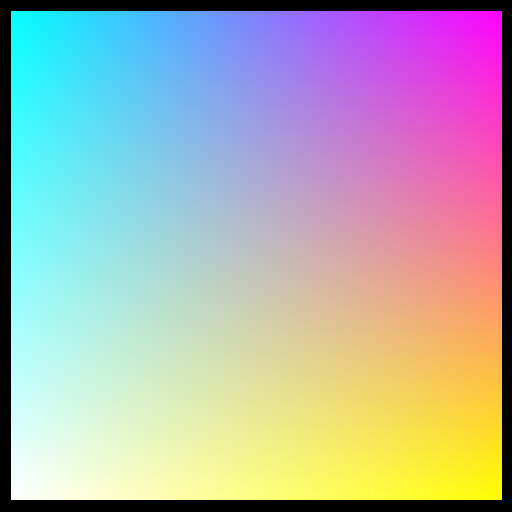
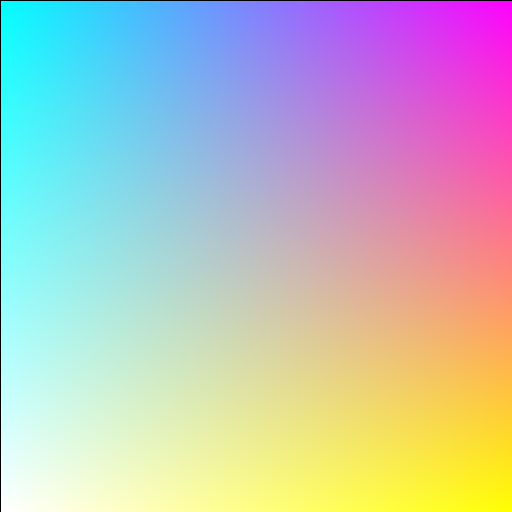
added lerp and lerpColor

Changed region(s): [[0.0, 0.0, 1.0, 1.0]]

diff --git a/main.py b/main.py
@@ -600,7 +600,7 @@ def clear():
     screen.fill((0, 0, 0))
 
 def main():
-    p = Polygon([[10, 10, CYAN], [500, 10, MAGENTA], [500, 500, YELLOW], [10, 500, WHITE]])
+    p = Polygon([[0, 0, CYAN], [WIDTH, 0, MAGENTA], [WIDTH, HEIGHT, YELLOW], [0, HEIGHT, WHITE]])
 
     p.setColor(MAGENTA)
     p.scanline(LCI)
